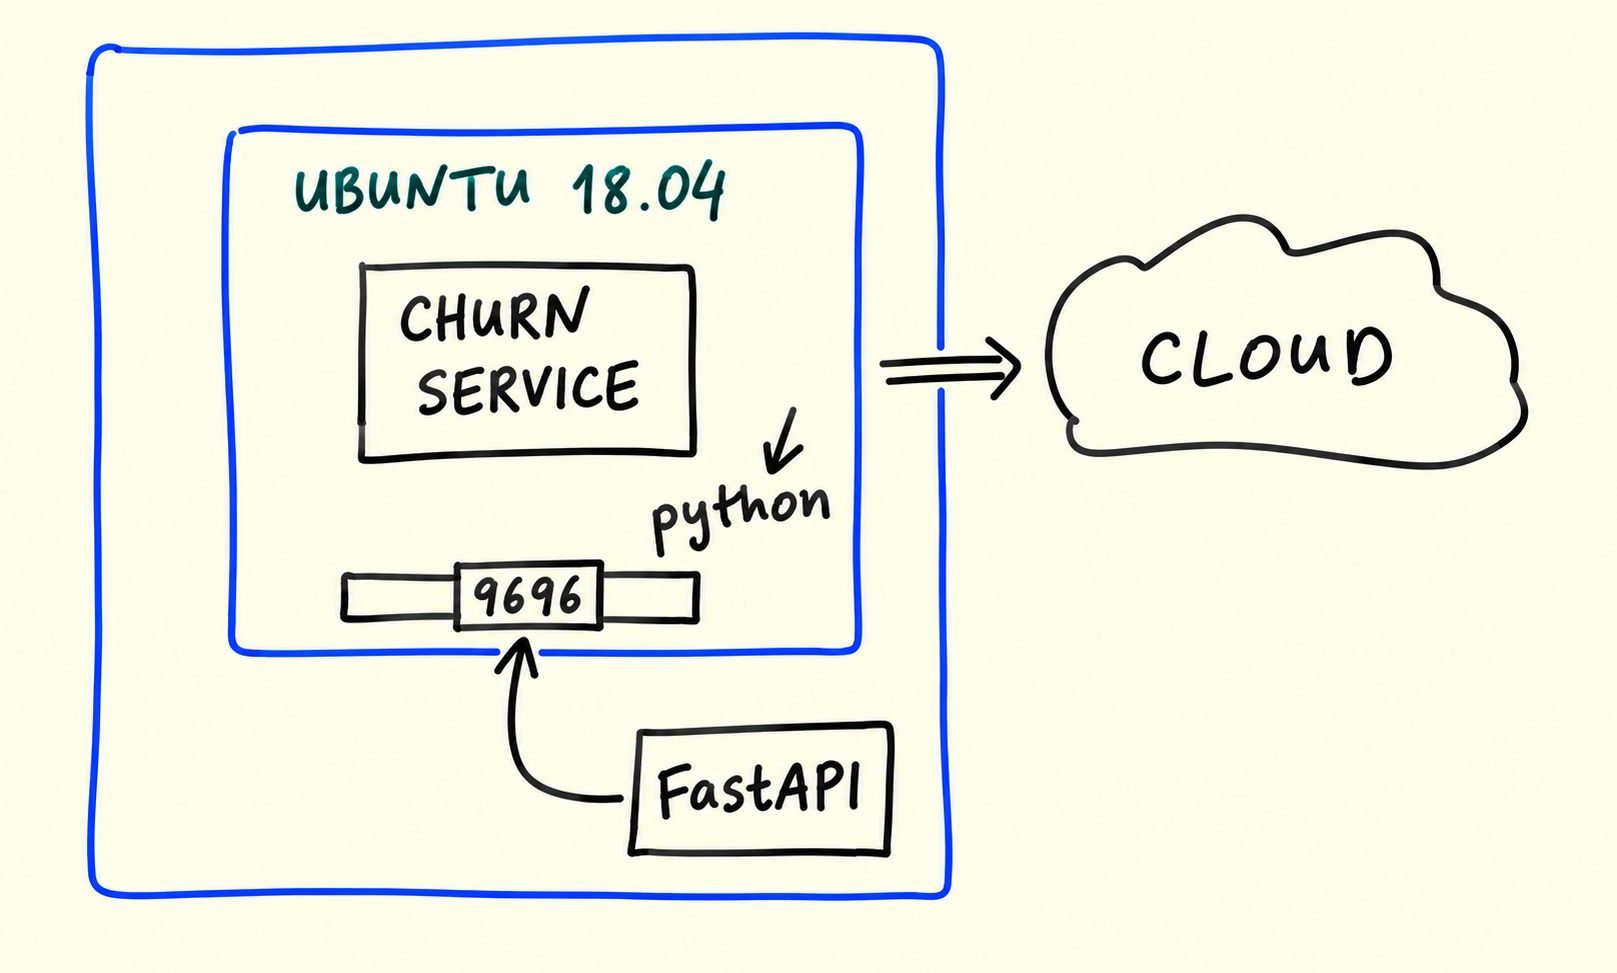
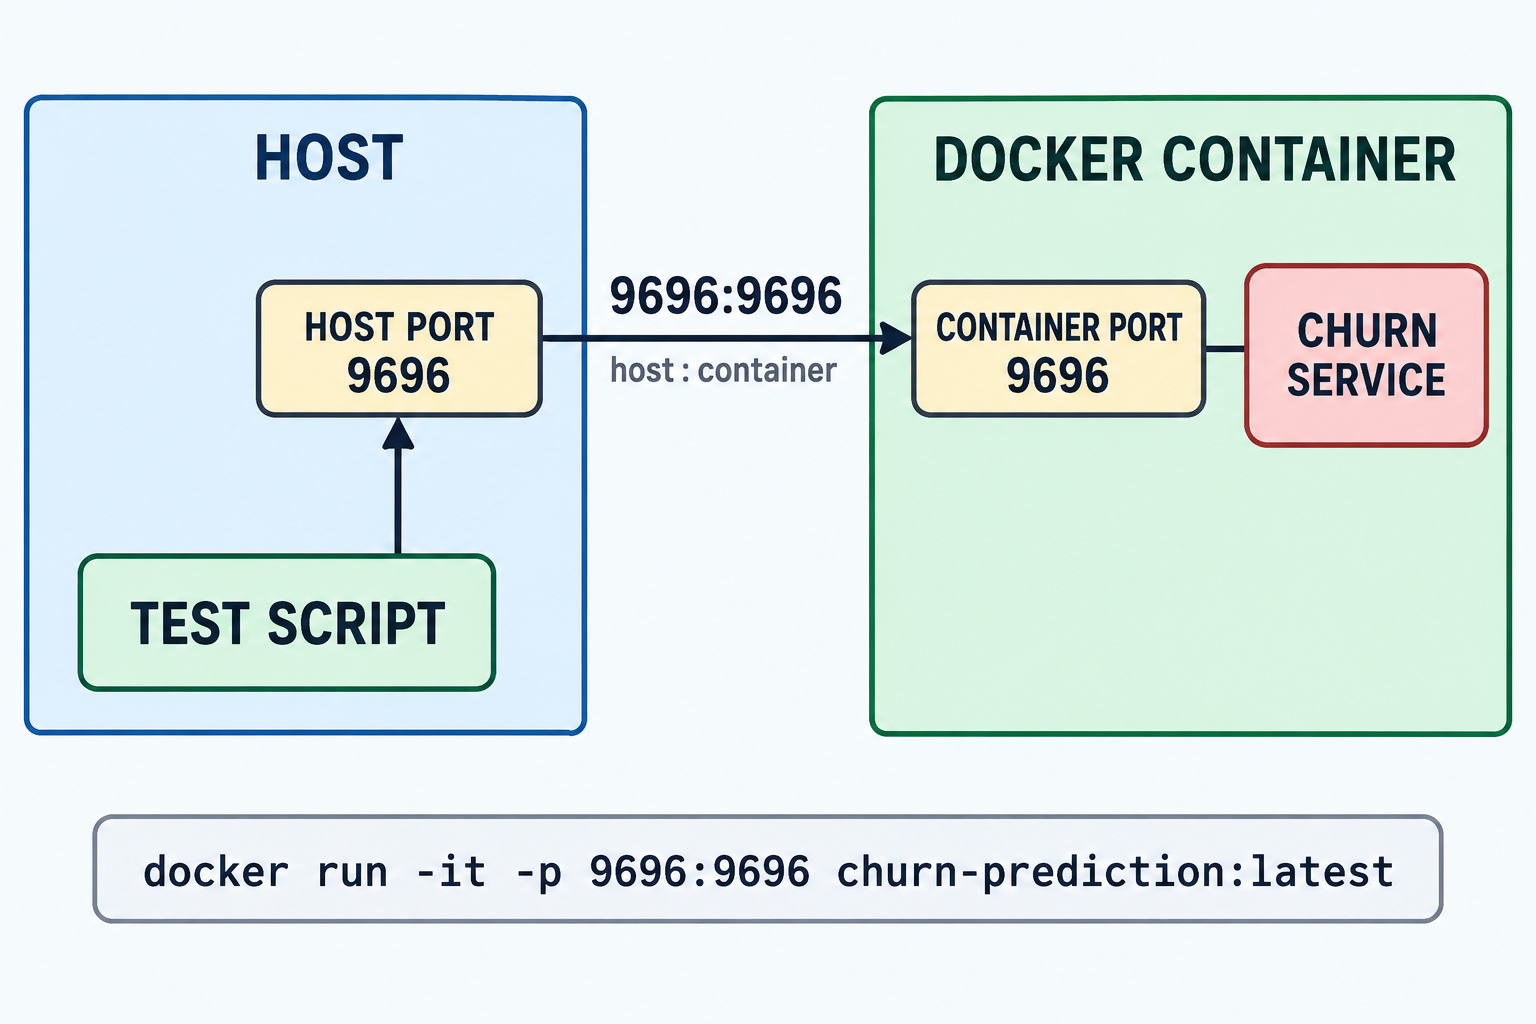
Regenerate Docker port mapping illustration

diff --git a/.tmp/ml-deployment-rollout-05-08.md b/.tmp/ml-deployment-rollout-05-08.md
@@ -16,7 +16,7 @@ Rules applied: preserve originals; remove webcam/recording chrome; use imagegen 
 - `06-docker.md` — `06-docker-02-containers-on-host.jpg` → `06-docker-02-containers-on-host-imagegen.png`: imagegen regeneration of the bounded container-isolation diagram; host/service/runtime/OS labels verified; no face, webcam, recording controls, cursor, or watermark.
 - `06-docker.md` — `06-docker-03-base-image-docker-hub.jpg` → `06-docker-03-base-image-docker-hub-cropped.png`: deterministic crop/upscale/sharpen of the exact Docker Hub tag list; selected `3.8.12-slim` entry preserved and webcam/browser chrome removed.
 - `06-docker.md` — `06-docker-04-dockerfile.jpg` → `06-docker-04-dockerfile-cropped.png`: deterministic crop/upscale/sharpen of the exact Dockerfile editor; source instructions preserved and webcam/UI chrome removed.
-- `06-docker.md` — `06-docker-05-port-mapping.jpg` → `06-docker-05-port-mapping-imagegen.png`: imagegen regeneration of the bounded port-publishing diagram; both `9696` labels and the service/container flow verified; no face, webcam, recording controls, cursor, or watermark.
[1 lines of base64/hex data omitted]
 - `07-aws-eb.md` — `07-aws-eb-01-module-plan.jpg` → `07-aws-eb-01-module-plan-cropped.png`: deterministic crop/upscale/sharpen focused on the exact AWS Elastic Beanstalk lesson-plan lines; source text preserved and webcam/UI chrome removed.
 - `07-aws-eb.md` — `07-aws-eb-02-eb-architecture.jpg` → `07-aws-eb-02-eb-architecture-imagegen.png`: imagegen regeneration of the bounded Elastic Beanstalk architecture diagram; required service/container/load-balancer/autoscaling labels verified; no face, webcam, recording controls, cursor, or watermark.
 - `07-aws-eb.md` — `07-aws-eb-03-eb-init.jpg` → `07-aws-eb-03-eb-init-cropped.png`: deterministic crop/upscale/sharpen of the exact EB CLI help and `eb init -p docker churn-serving` command; source text preserved and webcam/whiteboard chrome removed.
